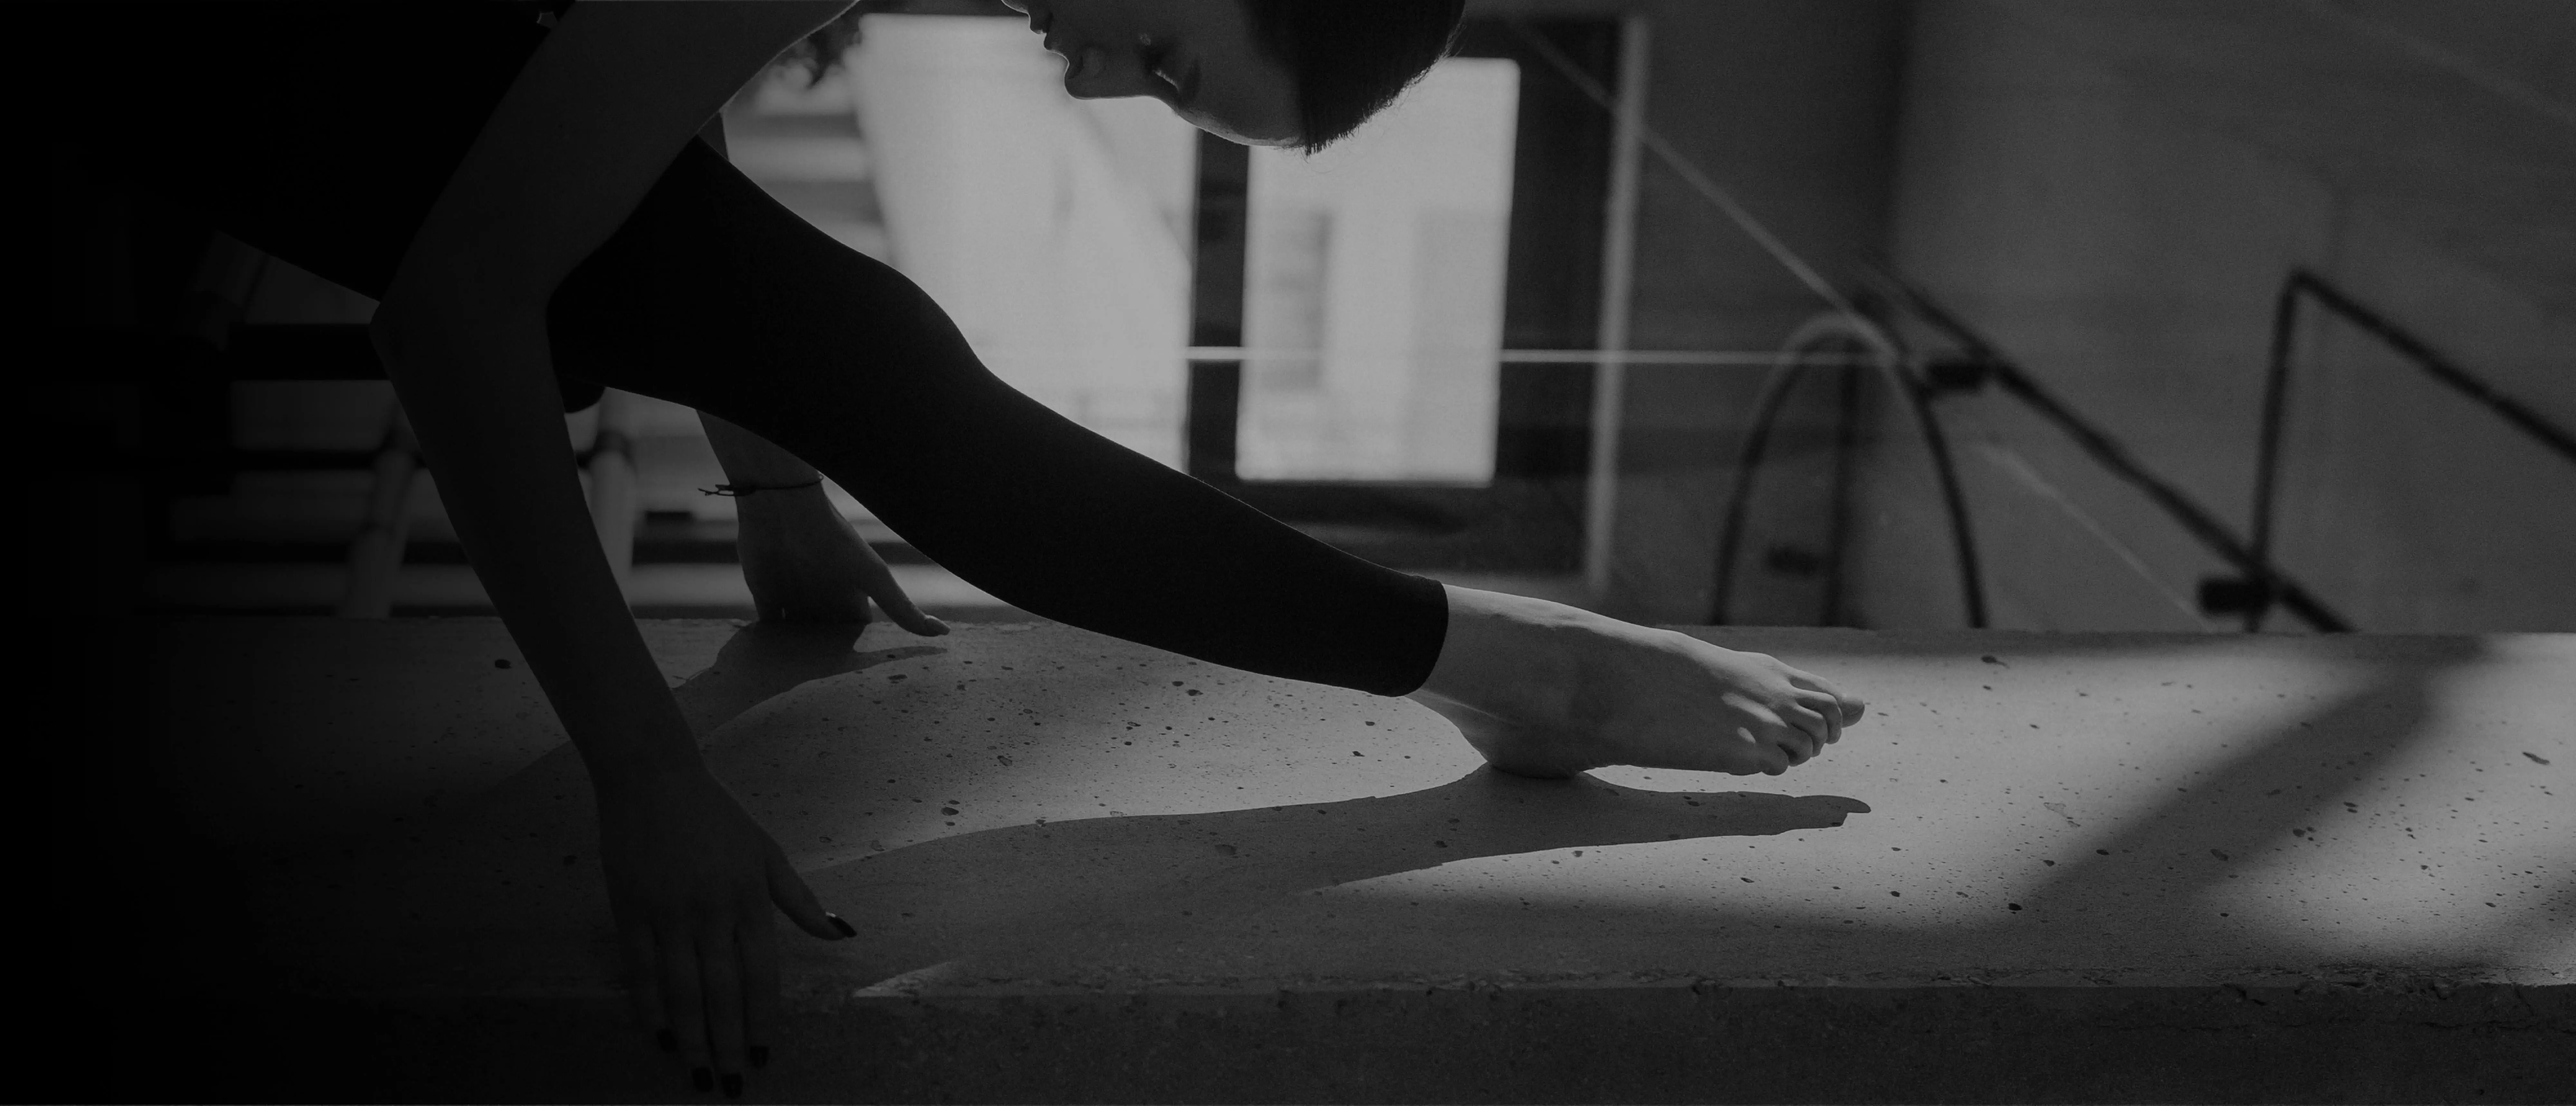
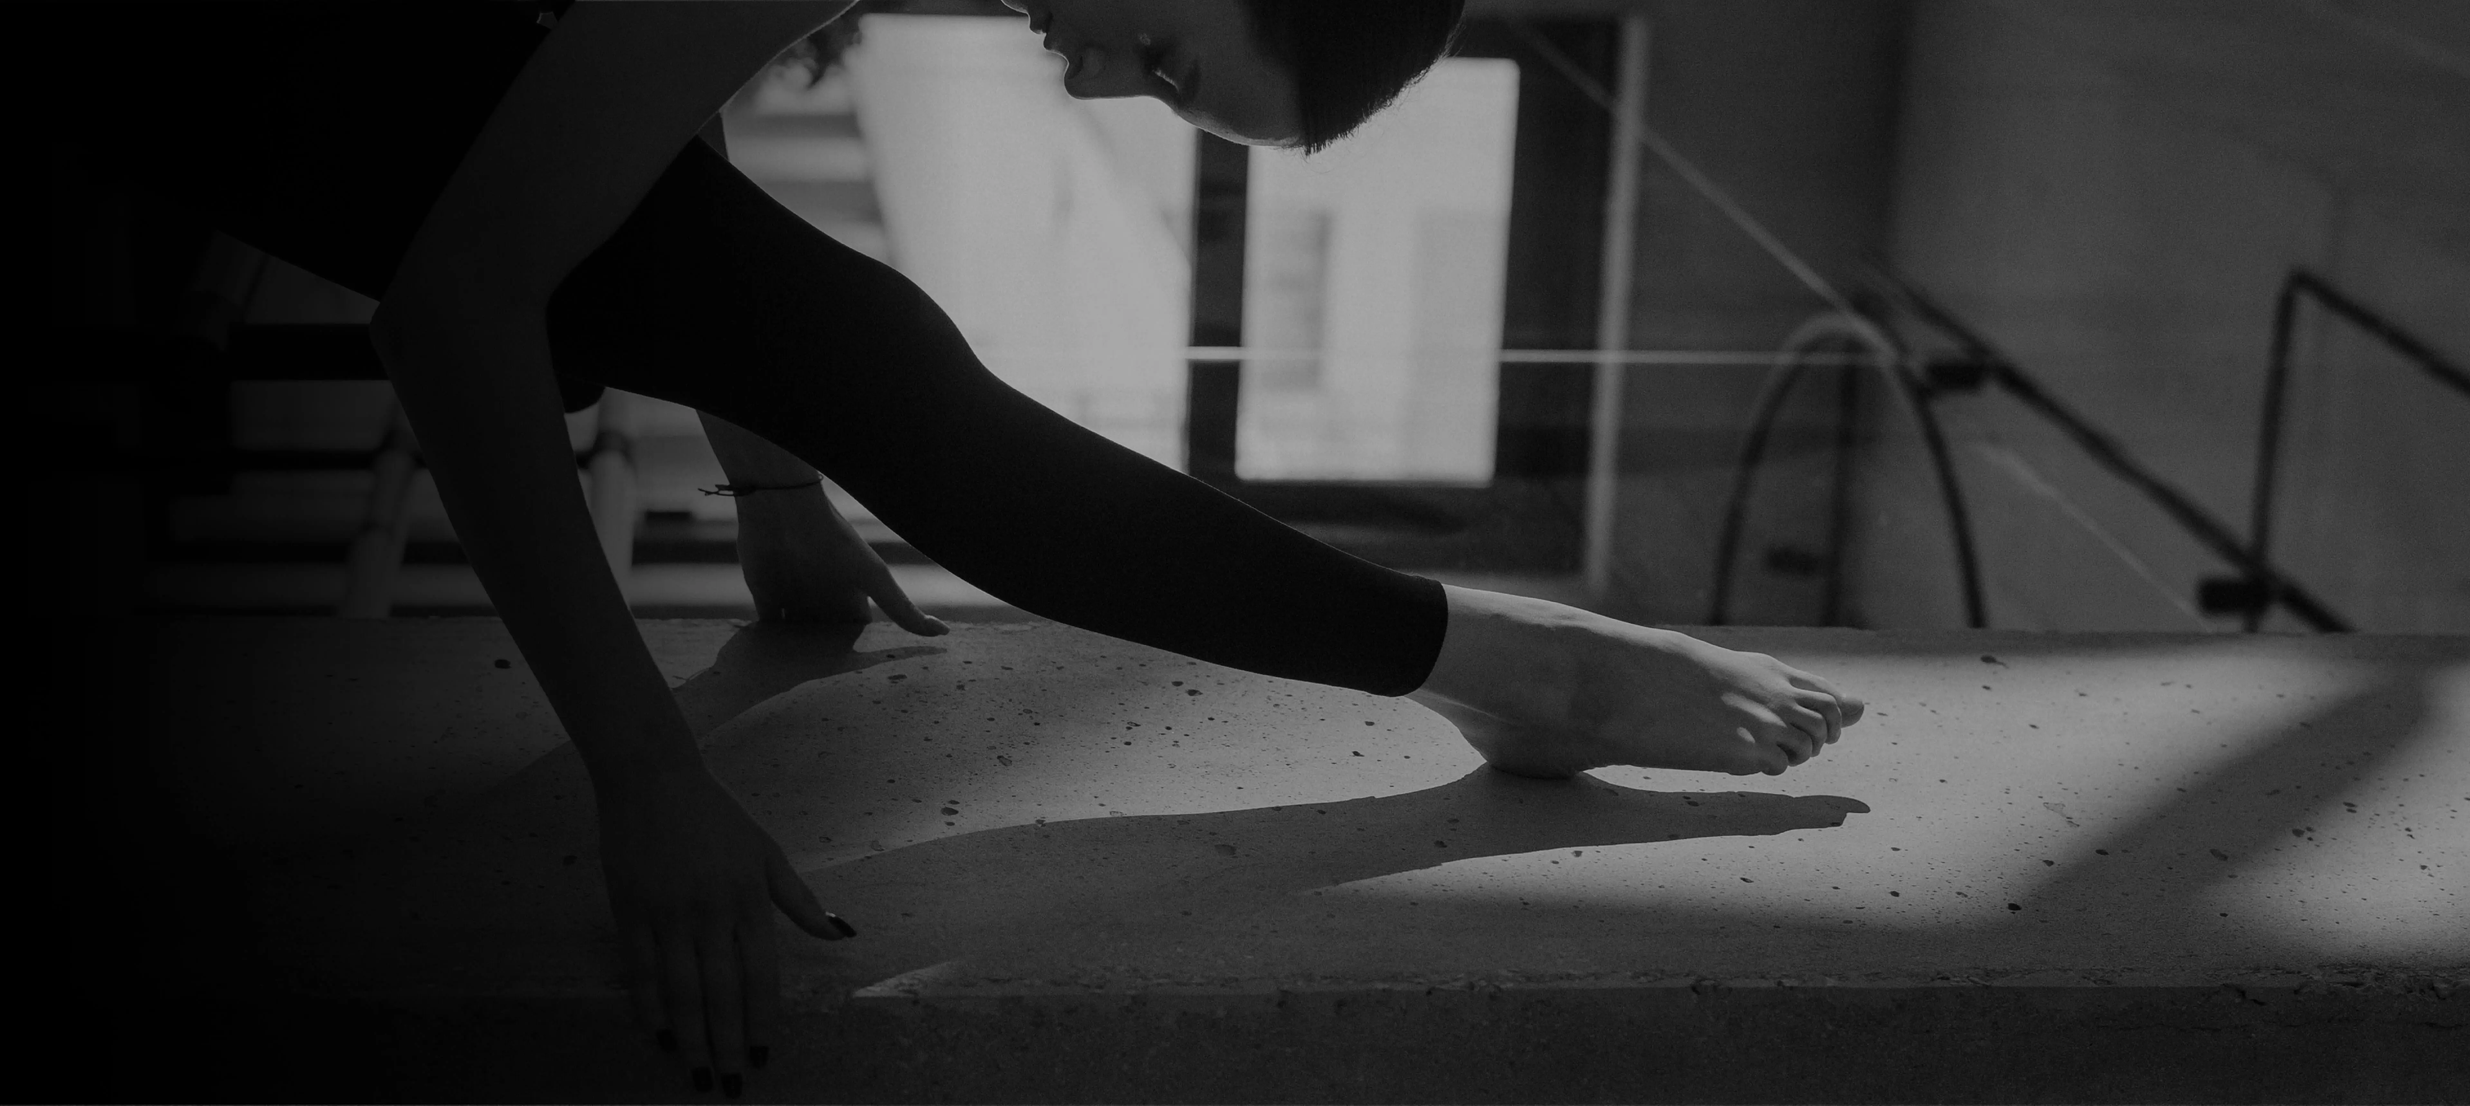
imagen cortada

diff --git a/src/components/Hero.tsx b/src/components/Hero.tsx
@@ -32,7 +32,7 @@ export default function Hero() {
           alt="Reformer Wellness Club"
           title="Reformer Yoga, Pilates, Massages"
           priority={true}
-          className="inset-0 hidden h-full w-full object-cover object-left md:block"
+          className="inset-0 hidden h-full w-full object-cover object-center md:block"
           src={hero}
         />
       </motion.div>
